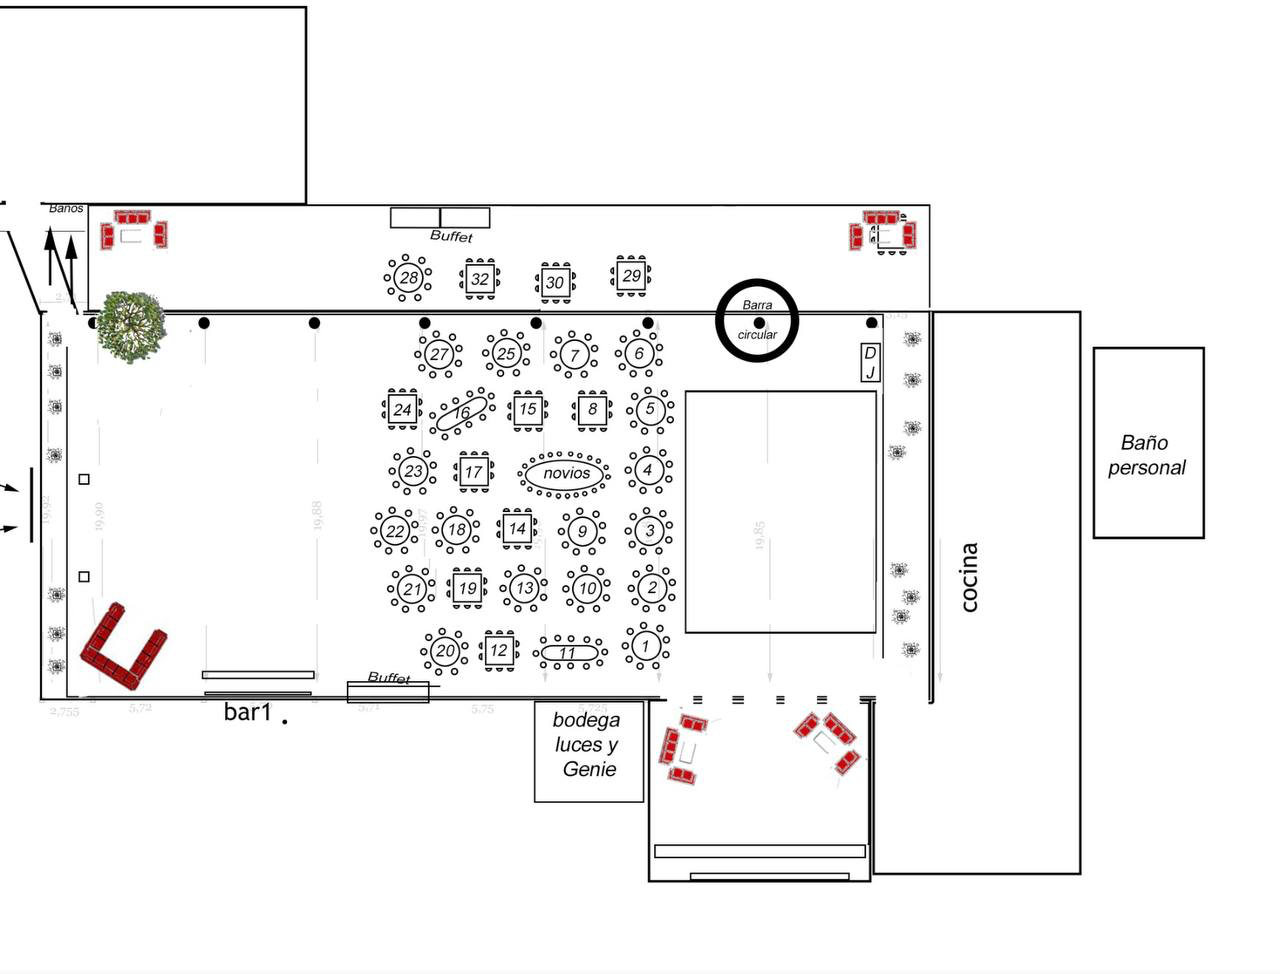
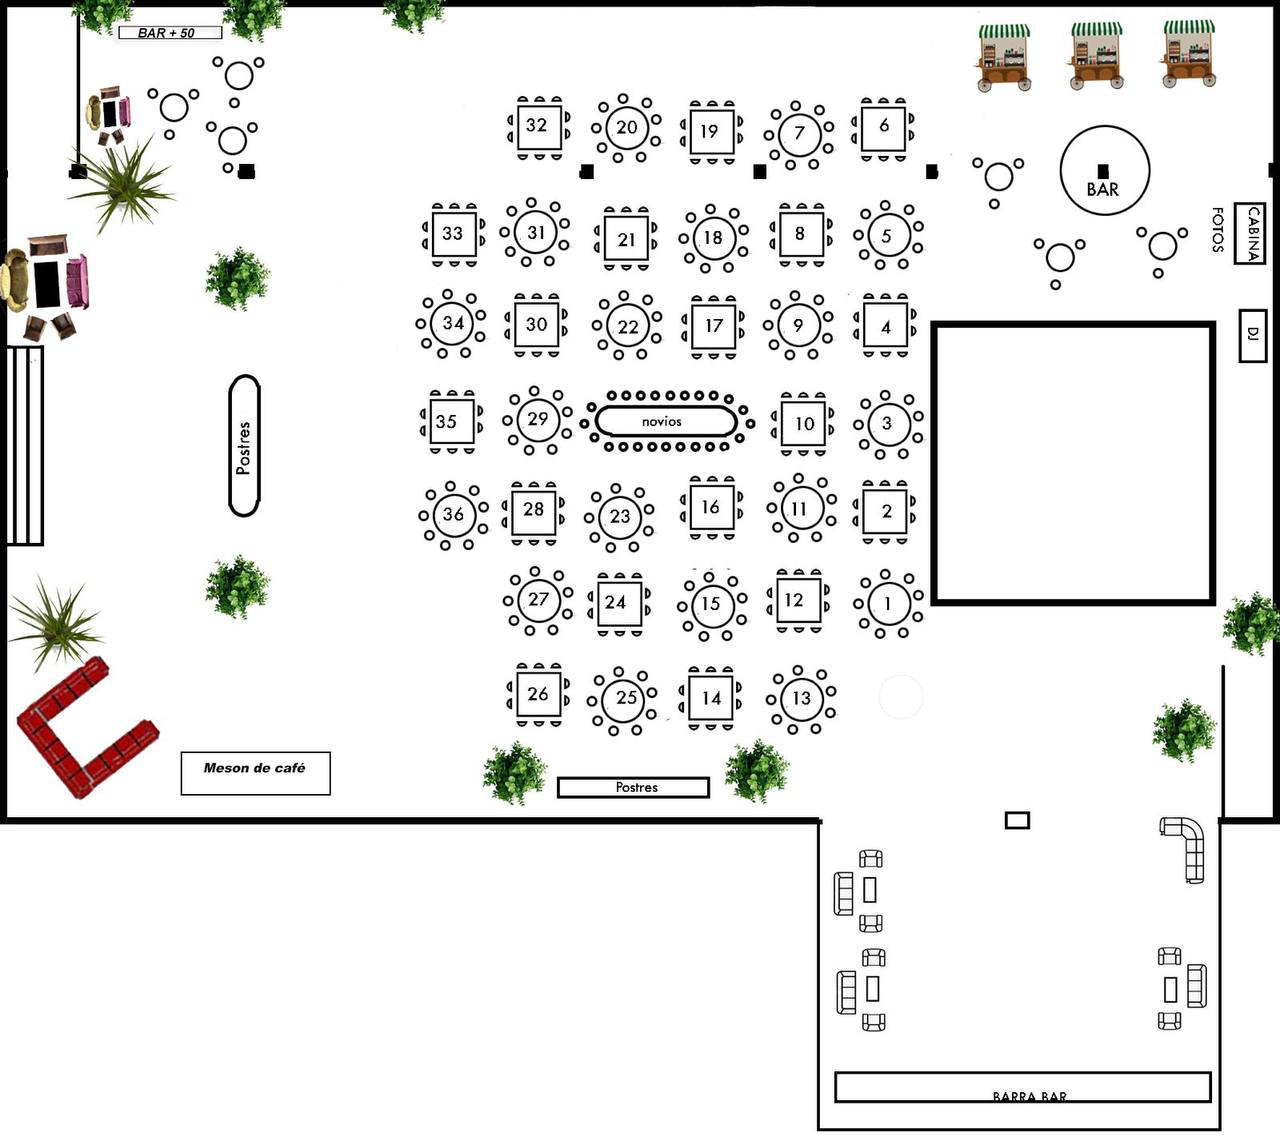
Rodriguez Touzard: refresh dataset, plan and QR

diff --git a/rodriguez-touzard.html b/rodriguez-touzard.html
@@ -8,7 +8,7 @@
   </head>
   <body
     class="theme-alto-noviciado"
-    data-dataset="data/guests-rodriguez-touzard.json?v=20260507"
+    data-dataset="data/guests-rodriguez-touzard.json?v=20260516"
     data-table-map="data/table-map-50.json"
   >
     <div class="backdrop"></div>